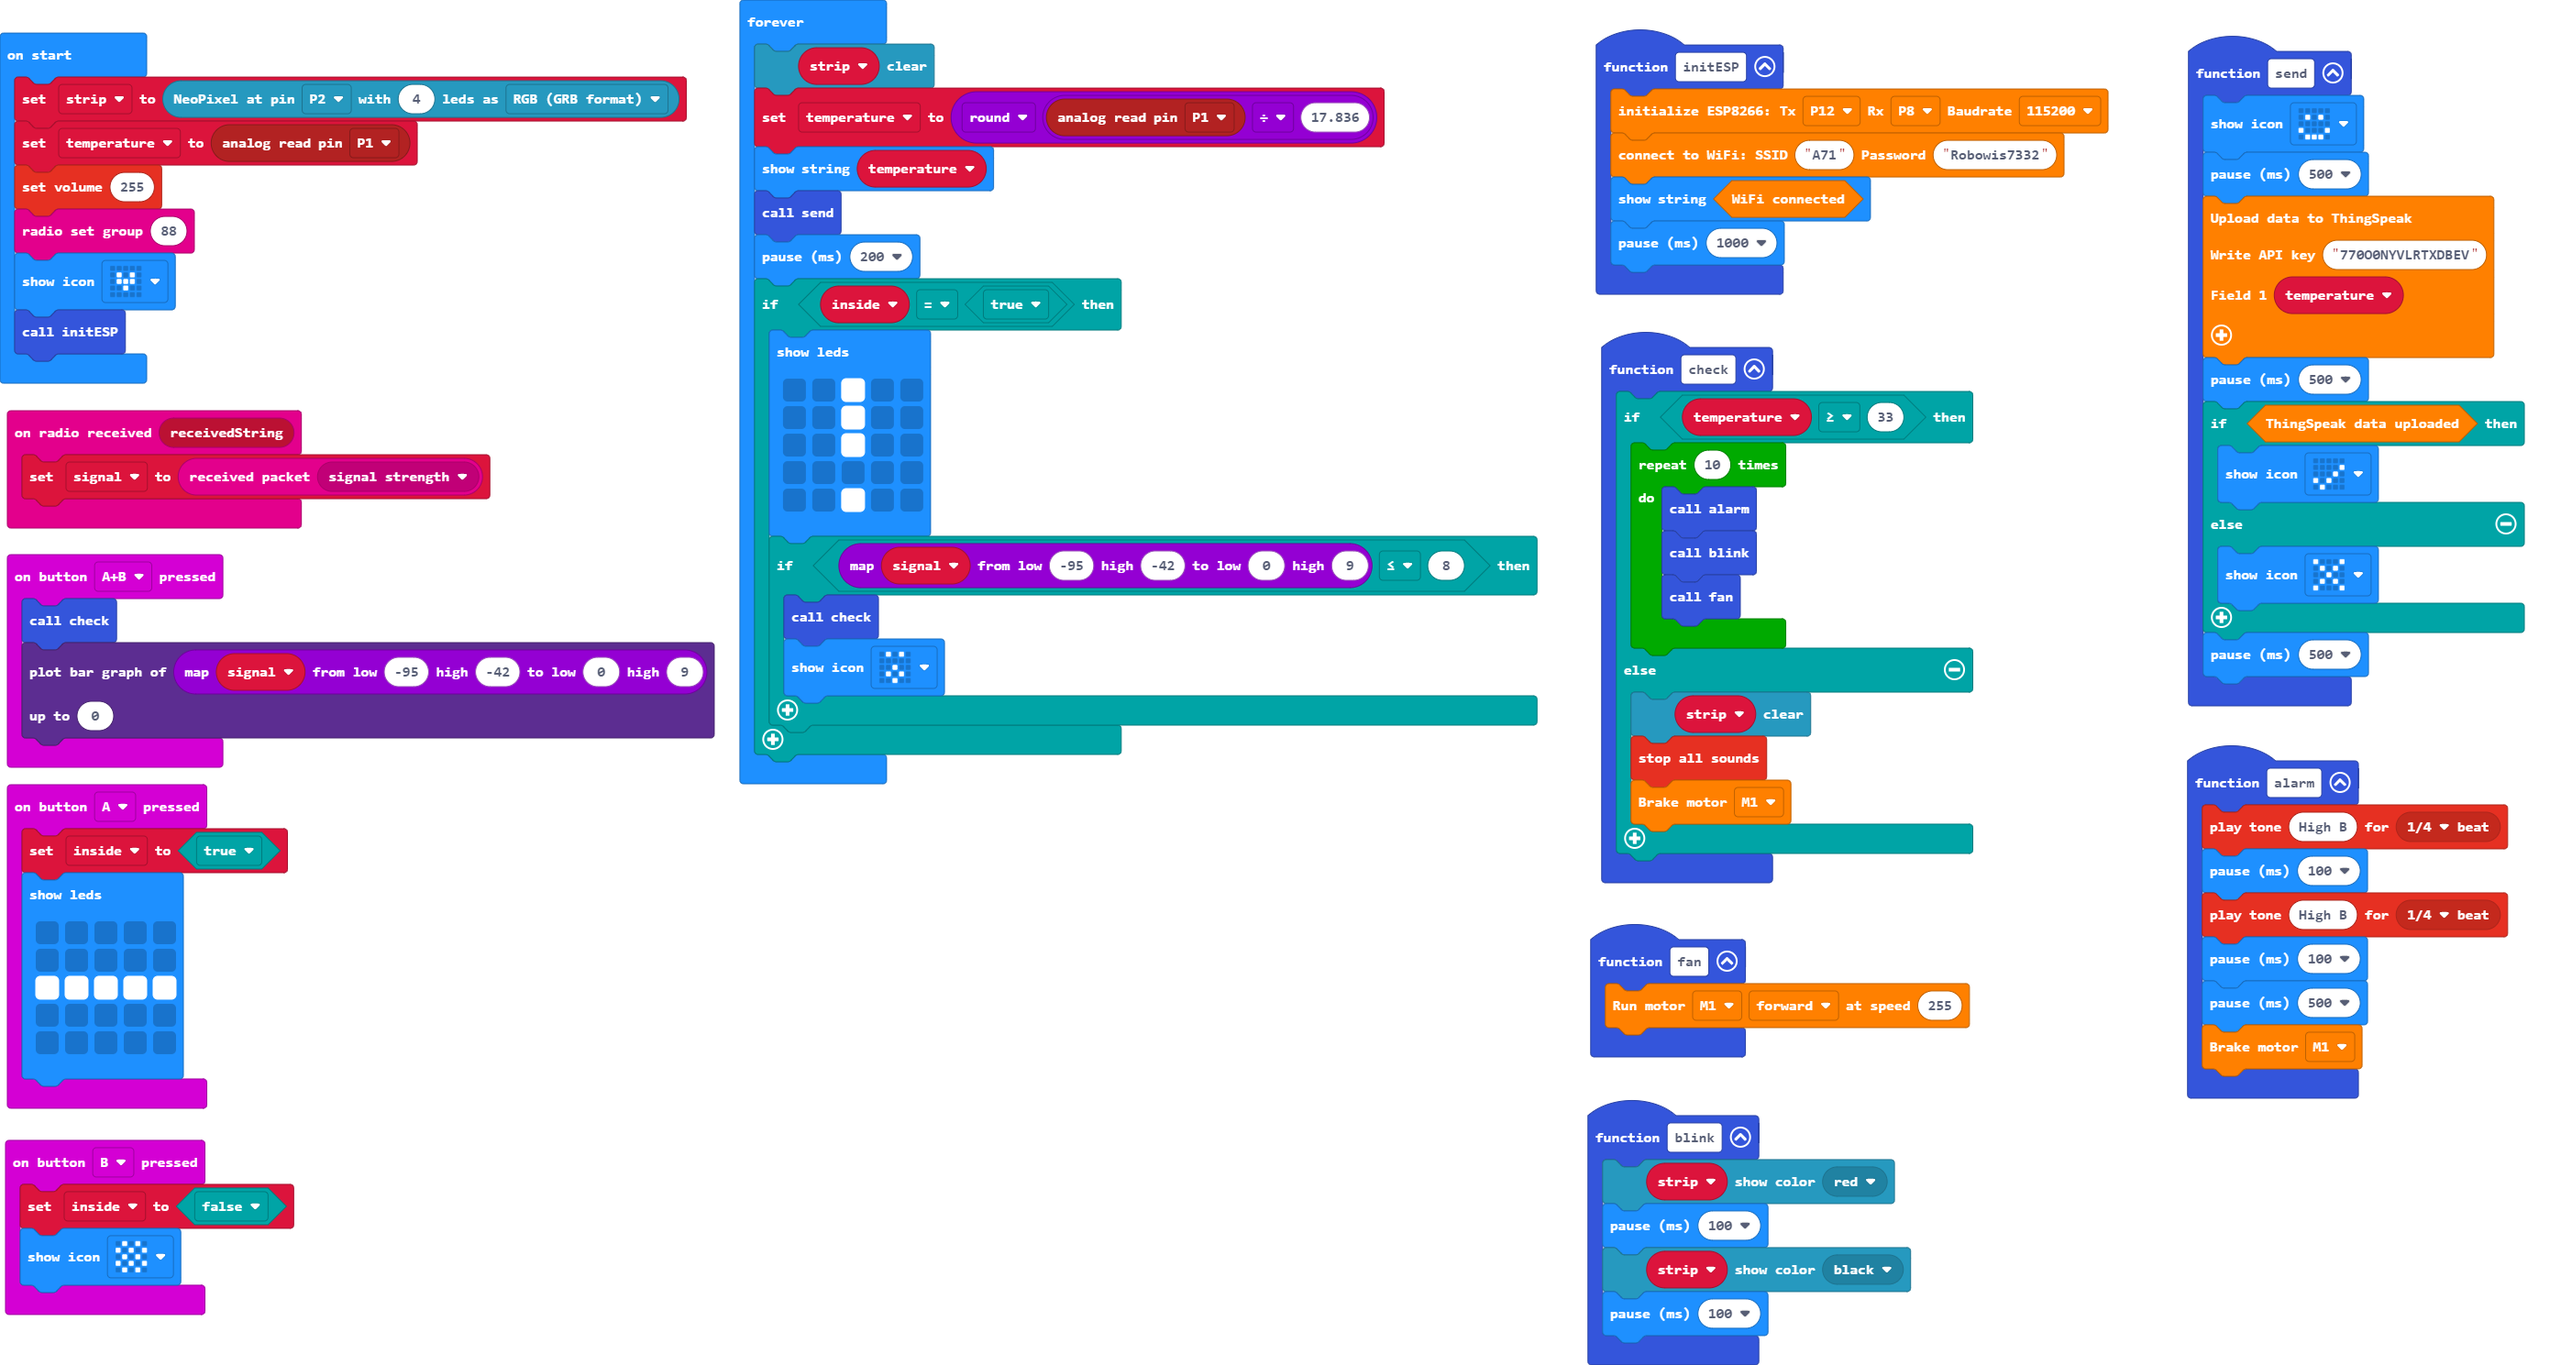
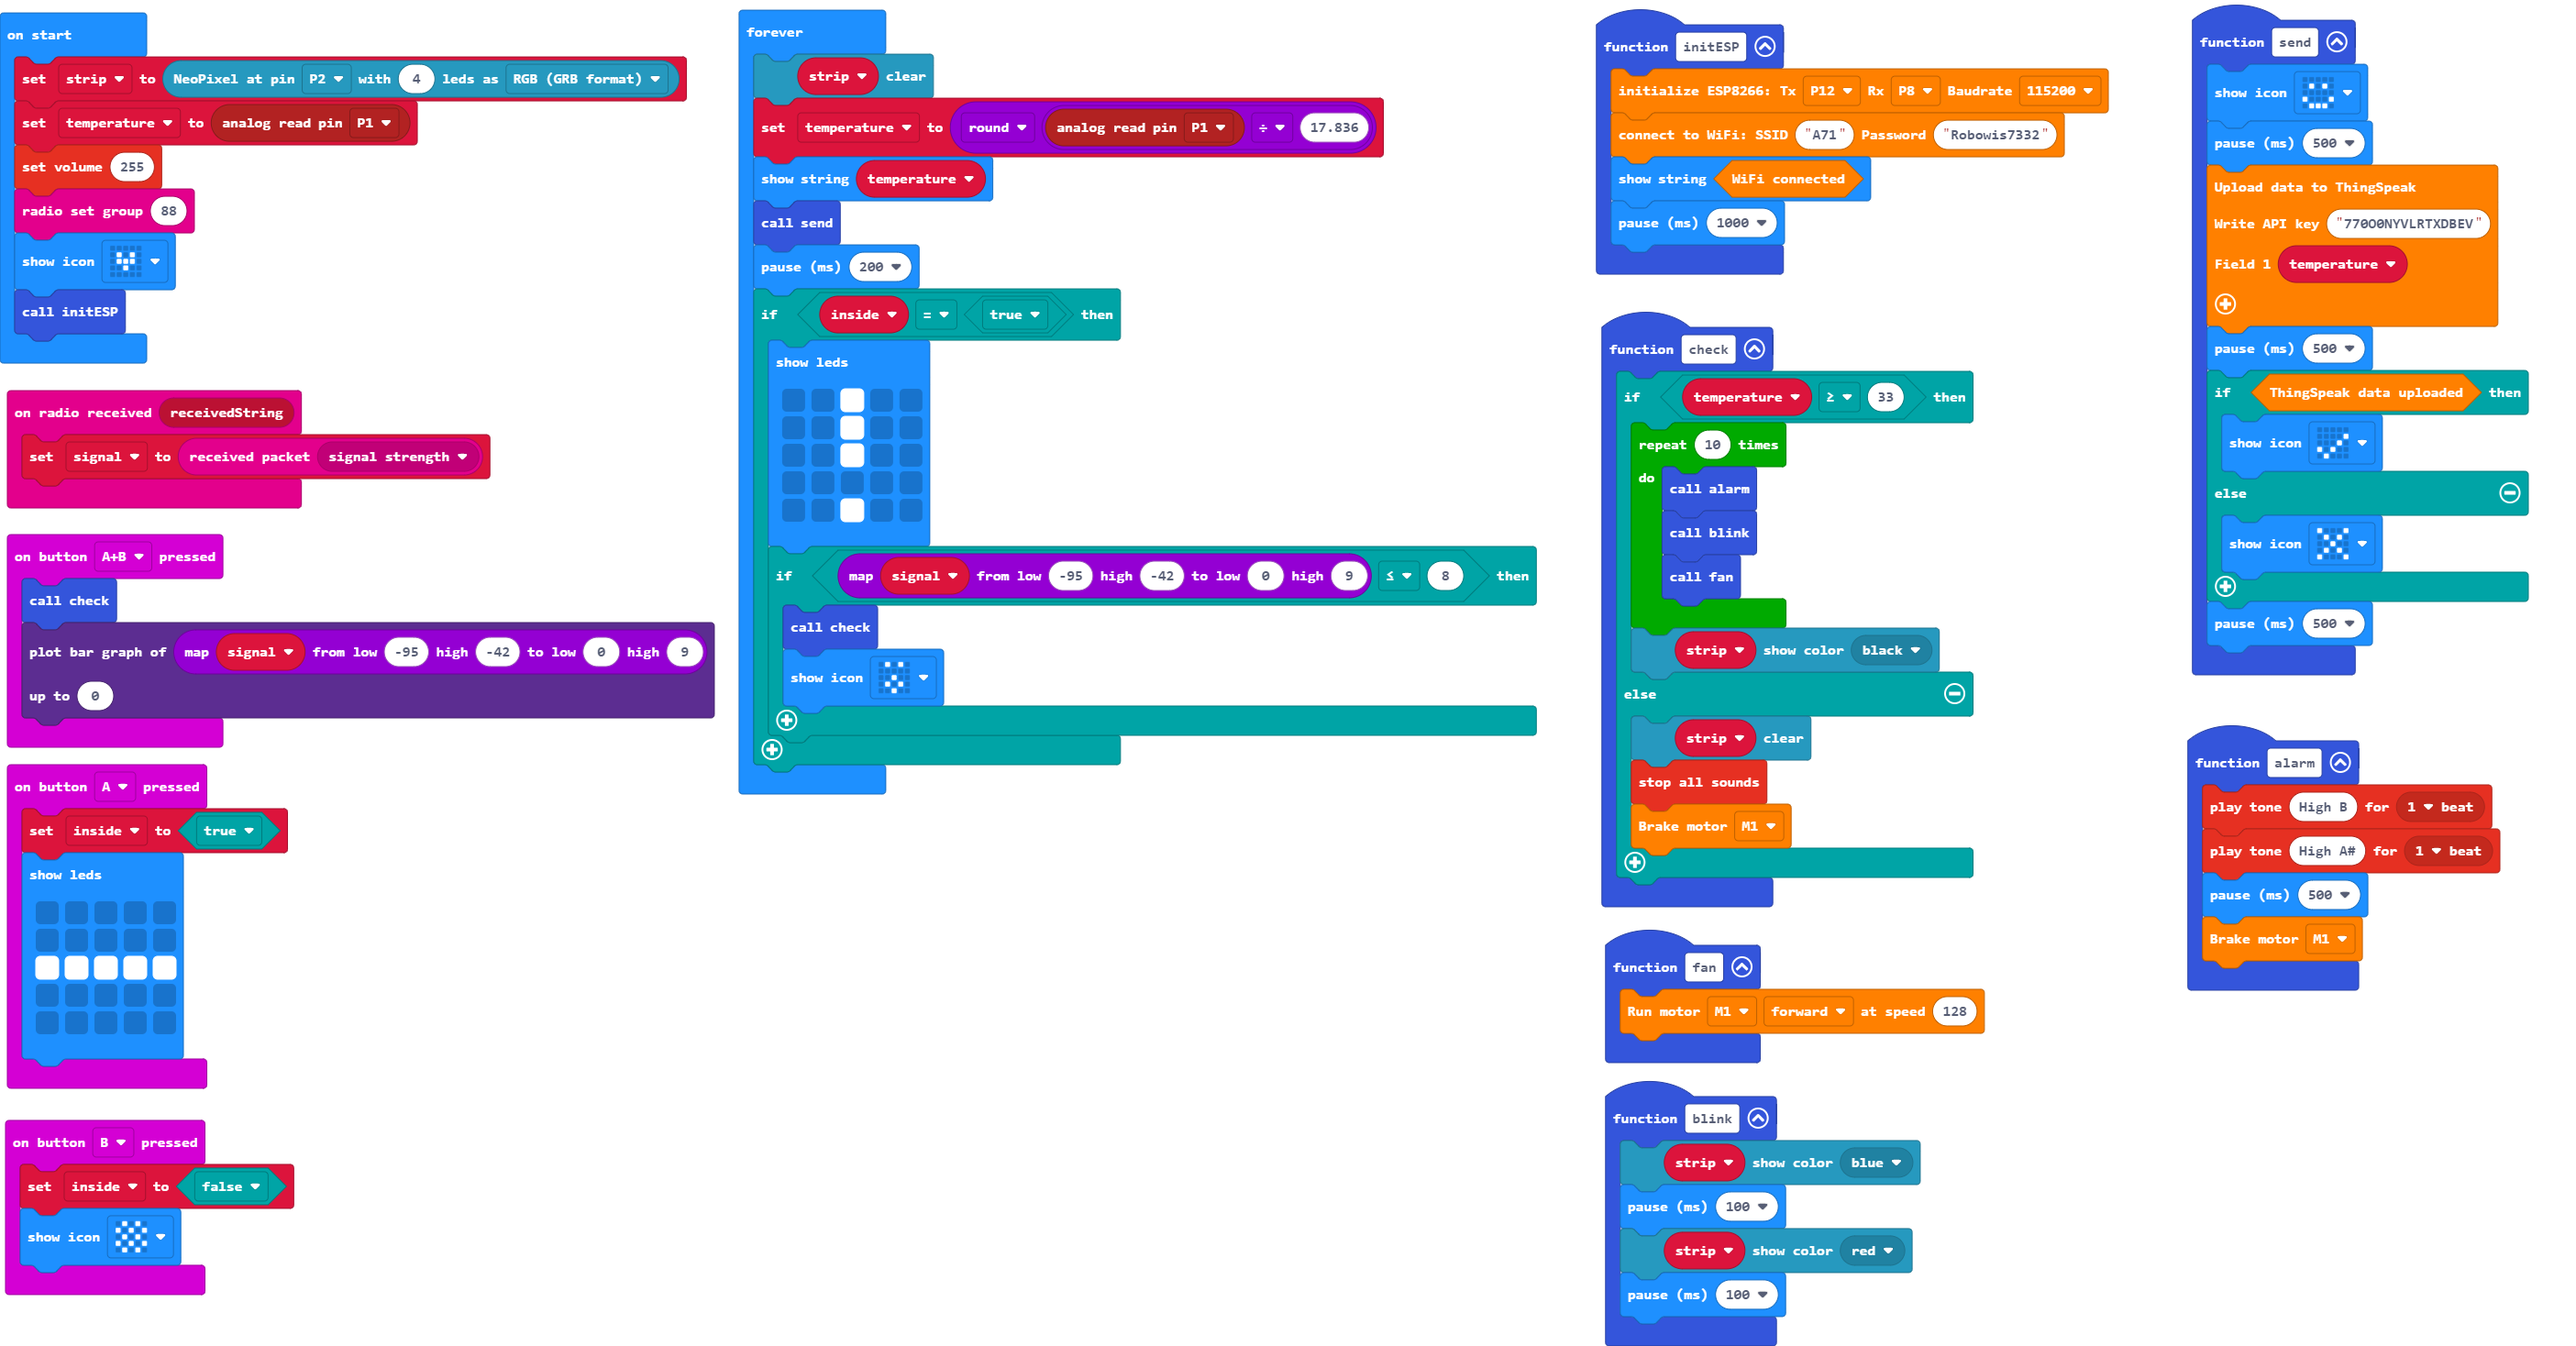
changed colors

Changed region(s): [[0.0, 0.0, 0.9925, 1.0]]

diff --git a/main.ts b/main.ts
@@ -5,6 +5,7 @@ function check () {
             blink()
             fan()
         }
+        strip.showColor(neopixel.colors(NeoPixelColors.Black))
     } else {
         strip.clear()
         music.stopAllSounds()
@@ -22,16 +23,14 @@ input.onButtonPressed(Button.A, function () {
         `)
 })
 function blink () {
-    strip.showColor(neopixel.colors(NeoPixelColors.Red))
+    strip.showColor(neopixel.colors(NeoPixelColors.Blue))
     basic.pause(100)
-    strip.showColor(neopixel.colors(NeoPixelColors.Black))
+    strip.showColor(neopixel.colors(NeoPixelColors.Red))
     basic.pause(100)
 }
 function alarm () {
-    music.playTone(988, music.beat(BeatFraction.Quarter))
-    basic.pause(100)
-    music.playTone(988, music.beat(BeatFraction.Quarter))
-    basic.pause(100)
+    music.playTone(988, music.beat(BeatFraction.Whole))
+    music.playTone(932, music.beat(BeatFraction.Whole))
     basic.pause(500)
     edubitMotors.brakeMotor(MotorChannel.M1)
 }
@@ -42,7 +41,7 @@ function initESP () {
     basic.pause(1000)
 }
 function fan () {
-    edubitMotors.runMotor(MotorChannel.M1, MotorDirection.Forward, 255)
+    edubitMotors.runMotor(MotorChannel.M1, MotorDirection.Forward, 128)
 }
 function send () {
     basic.showIcon(IconNames.Happy)
